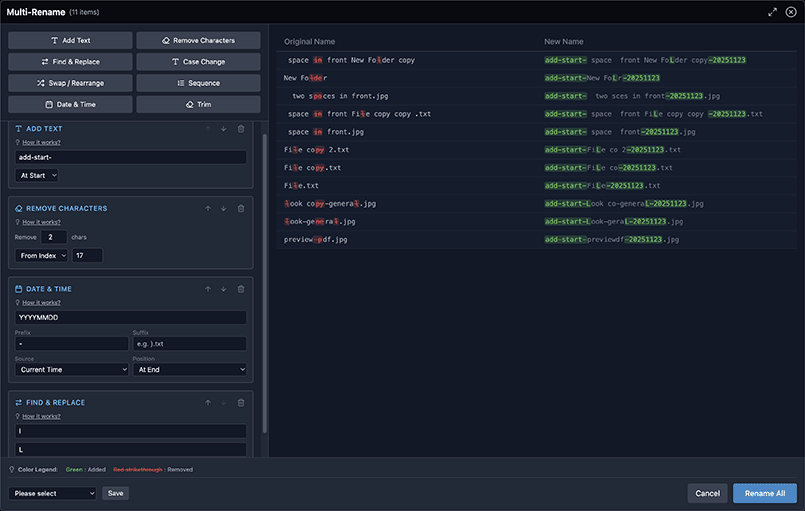
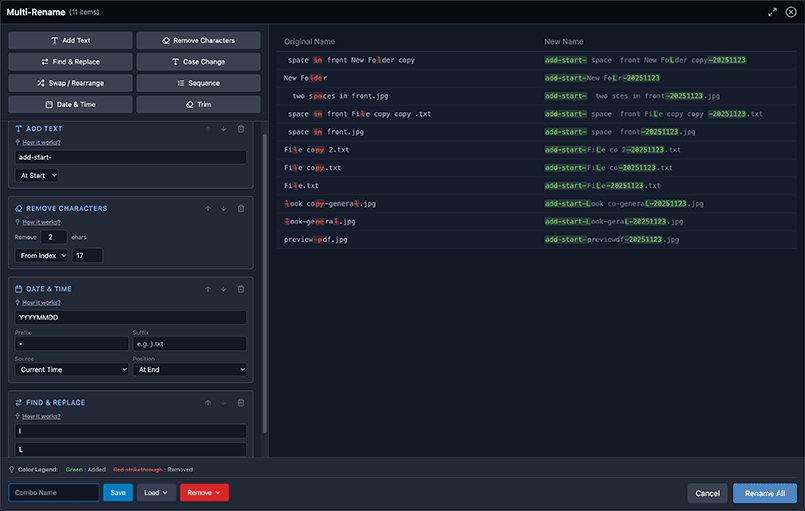
Refactor the UX for Multi Rename modal's Save/Load/Remove of rename combos.

Changed region(s): [[0.0, 0.9393, 0.3106, 0.998]]

diff --git a/packages/client/src/components/modals/MultiRenameModal.jsx b/packages/client/src/components/modals/MultiRenameModal.jsx
@@ -13,6 +13,7 @@ import {
   ListOrdered,
   Calendar,
   Lightbulb,
+  ChevronDown,
 } from "lucide-react";
 import { applyRenameOperations, generateDiff } from "../../lib/renameUtils";
 import {
@@ -42,11 +43,13 @@ export default function MultiRenameModal({
   const [operations, setOperations] = useState([]);
   const [previewItems, setPreviewItems] = useState([]);
   const [savedCombos, setSavedCombos] = useState([]);
-  const [selectedCombo, setSelectedCombo] = useState("");
-  const [isSaving, setIsSaving] = useState(false);
   const [saveName, setSaveName] = useState("");
+  const [showLoadDropdown, setShowLoadDropdown] = useState(false);
+  const [showRemoveDropdown, setShowRemoveDropdown] = useState(false);
   const [isFullscreen, setIsFullscreen] = useState(false);
   const containerRef = useRef(null);
+  const loadDropdownRef = useRef(null);
+  const removeDropdownRef = useRef(null);
 
   // Reset when opening
   useEffect(() => {
@@ -191,6 +194,85 @@ export default function MultiRenameModal({
     window.addEventListener("keydown", handleKeyDown);
     return () => window.removeEventListener("keydown", handleKeyDown);
   }, [isVisible]);
+
+  // Close dropdowns when clicking outside
+  useEffect(() => {
+    const handleClickOutside = (event) => {
+      if (
+        loadDropdownRef.current &&
+        !loadDropdownRef.current.contains(event.target)
+      ) {
+        setShowLoadDropdown(false);
+      }
+      if (
+        removeDropdownRef.current &&
+        !removeDropdownRef.current.contains(event.target)
+      ) {
+        setShowRemoveDropdown(false);
+      }
+    };
+
+    if (isVisible) {
+      document.addEventListener("mousedown", handleClickOutside);
+      return () => document.removeEventListener("mousedown", handleClickOutside);
+    }
+  }, [isVisible]);
+
+  const handleSave = async () => {
+    if (!saveName.trim()) {
+      alert("Please enter a name for this rename combination.");
+      return;
+    }
+    if (operations.length === 0) {
+      alert("Please add at least one operation before saving.");
+      return;
+    }
+
+    try {
+      // Prepare operations for saving (strip id to avoid persistent ids)
+      const toSave = operations.map(({ id, ...rest }) => rest);
+      await saveMultiRenameCombo(saveName, toSave);
+      // refresh saved combos
+      const combos = await fetchMultiRenameCombos();
+      setSavedCombos(Array.isArray(combos) ? combos : []);
+      // Don't clear saveName, so user sees what they saved
+    } catch (err) {
+      console.error("[MultiRename] failed to save rename combination", err);
+      alert("Failed to save: " + err.message);
+    }
+  };
+
+  const handleLoad = (comboName) => {
+    const combo = savedCombos.find((c) => c.name === comboName);
+    if (combo && Array.isArray(combo.operations)) {
+      const restored = combo.operations.map((op, idx) => ({
+        ...op,
+        id: `${Date.now()}-${idx}`,
+      }));
+      setOperations(restored);
+      setSaveName(comboName); // Update input to match loaded combo
+    }
+    setShowLoadDropdown(false);
+  };
+
+  const handleRemove = async (comboName) => {
+    const confirmed = window.confirm(
+      `Remove saved rename combination "${comboName}"?`
+    );
+    if (!confirmed) return;
+
+    try {
+      const data = await removeMultiRenameCombo(comboName);
+      setSavedCombos(Array.isArray(data.combos) ? data.combos : []);
+      if (saveName === comboName) {
+        setSaveName("");
+      }
+    } catch (err) {
+      console.error("[MultiRename] failed to remove rename combination", err);
+      alert("Failed to remove: " + err.message);
+    }
+    setShowRemoveDropdown(false);
+  };
 
   if (!isVisible) return null;
 
@@ -371,128 +453,77 @@ export default function MultiRenameModal({
           )}
 
           <div className="flex justify-between gap-3 items-center">
-            {/* Left: saved combos / save control */}
-            <div className="flex items-center gap-3">
-              {savedCombos && savedCombos.length > 0 && (
-                <select
-                  value={selectedCombo || ""}
-                  onChange={(e) => {
-                    const name = e.target.value;
-                    setSelectedCombo(name);
-                  }}
-                  className="bg-gray-900 border border-gray-700 rounded px-2 py-1 text-sm text-white focus:border-sky-500 outline-none"
-                >
-                  <option value="">Please select</option>
-                  {savedCombos.map((c) => (
-                    <option key={c.name} value={c.name}>
-                      {c.name}
-                    </option>
-                  ))}
-                </select>
-              )}
-
-              <div className="flex items-center gap-2">
-                {/* Load / Remove controls - only active when a saved combo is selected */}
-                {selectedCombo ? (
-                  <>
-                    <button
-                      onClick={() => {
-                        const combo = savedCombos.find(
-                          (c) => c.name === selectedCombo
-                        );
-                        if (combo && Array.isArray(combo.operations)) {
-                          const restored = combo.operations.map((op, idx) => ({
-                            ...op,
-                            id: `${Date.now()}-${idx}`,
-                          }));
-                          setOperations(restored);
-                        }
-                      }}
-                      className="px-3 py-1 bg-sky-600 hover:bg-sky-500 text-white rounded text-sm transition-colors"
-                      title="Load selected rename combination"
-                    >
-                      Load
-                    </button>
-                    <button
-                      onClick={async () => {
-                        const confirmed = window.confirm(
-                          `Remove saved rename combination "${selectedCombo}"?`
-                        );
-                        if (!confirmed) return;
-                        try {
-                          const data = await removeMultiRenameCombo(
-                            selectedCombo
-                          );
-                          // server returns updated combos
-                          setSavedCombos(
-                            Array.isArray(data.combos) ? data.combos : []
-                          );
-                          setSelectedCombo("");
-                        } catch (err) {
-                          console.error(
-                            "[MultiRename] failed to remove rename combination",
-                            err
-                          );
-                        }
-                      }}
-                      className="px-3 py-1 bg-rose-600 hover:bg-rose-500 text-white rounded text-sm transition-colors"
-                      title="Remove selected rename combination"
-                    >
-                      Remove
-                    </button>
-                  </>
-                ) : null}
-                {isSaving ? (
-                  <>
-                    <input
-                      value={saveName}
-                      onChange={(e) => setSaveName(e.target.value)}
-                      placeholder="Rename combination name"
-                      className="bg-gray-900 border border-gray-700 rounded px-2 py-1 text-sm text-white focus:border-sky-500 outline-none"
-                    />
-                    <button
-                      onClick={async () => {
-                        if (!saveName || operations.length === 0) return;
-                        try {
-                          // Prepare operations for saving (strip id to avoid persistent ids)
-                          const toSave = operations.map(
-                            ({ id, ...rest }) => rest
-                          );
-                          await saveMultiRenameCombo(saveName, toSave);
-                          // refresh saved combos
-                          const combos = await fetchMultiRenameCombos();
-                          setSavedCombos(Array.isArray(combos) ? combos : []);
-                          setSelectedCombo(saveName);
-                          setIsSaving(false);
-                          setSaveName("");
-                        } catch (err) {
-                          console.error(
-                            "[MultiRename] failed to save rename combination",
-                            err
-                          );
-                        }
-                      }}
-                      className="px-3 py-1 bg-emerald-600 hover:bg-emerald-500 text-white rounded text-sm transition-colors"
-                    >
-                      Save
-                    </button>
-                    <button
-                      onClick={() => {
-                        setIsSaving(false);
-                        setSaveName("");
-                      }}
-                      className="px-2 py-1 bg-gray-700 hover:bg-gray-600 text-white rounded text-sm transition-colors"
-                    >
-                      Cancel
-                    </button>
-                  </>
-                ) : (
+            {/* Left: Save/Load/Remove controls */}
+            <div className="flex items-center gap-2">
+              {operations.length > 0 && (
+                <>
+                  <input
+                    type="text"
+                    value={saveName}
+                    onChange={(e) => setSaveName(e.target.value)}
+                    placeholder="Combo Name"
+                    className="bg-gray-900 border border-gray-700 rounded px-3 py-2 text-sm text-white focus:border-sky-500 outline-none w-48"
+                  />
                   <button
-                    onClick={() => setIsSaving(true)}
-                    className="px-3 py-1 bg-gray-700 hover:bg-gray-600 text-white rounded text-sm transition-colors"
+                    onClick={handleSave}
+                    className="px-4 py-2 bg-sky-600 hover:bg-sky-700 text-white rounded transition-colors text-sm"
                   >
                     Save
                   </button>
+                </>
+              )}
+
+              {/* Load Dropdown */}
+              <div className="relative" ref={loadDropdownRef}>
+                <button
+                  onClick={() => {
+                    setShowLoadDropdown(!showLoadDropdown);
+                    setShowRemoveDropdown(false);
+                  }}
+                  disabled={savedCombos.length === 0}
+                  className="px-4 py-2 bg-gray-700 hover:bg-gray-600 text-white rounded transition-colors disabled:opacity-50 disabled:cursor-not-allowed flex items-center gap-1 text-sm"
+                >
+                  Load <ChevronDown size={16} />
+                </button>
+                {showLoadDropdown && savedCombos.length > 0 && (
+                  <div className="absolute bottom-full mb-1 left-0 bg-gray-800 border border-gray-600 rounded shadow-lg max-h-48 overflow-y-auto z-10 min-w-[200px]">
+                    {savedCombos.map((c) => (
+                      <button
+                        key={c.name}
+                        onClick={() => handleLoad(c.name)}
+                        className="w-full text-left px-4 py-2 hover:bg-sky-600 text-white transition-colors text-sm"
+                      >
+                        {c.name}
+                      </button>
+                    ))}
+                  </div>
+                )}
+              </div>
+
+              {/* Remove Dropdown */}
+              <div className="relative" ref={removeDropdownRef}>
+                <button
+                  onClick={() => {
+                    setShowRemoveDropdown(!showRemoveDropdown);
+                    setShowLoadDropdown(false);
+                  }}
+                  disabled={savedCombos.length === 0}
+                  className="px-4 py-2 bg-red-600 hover:bg-red-700 text-white rounded transition-colors disabled:opacity-50 disabled:cursor-not-allowed flex items-center gap-1 text-sm"
+                >
+                  Remove <ChevronDown size={16} />
+                </button>
+                {showRemoveDropdown && savedCombos.length > 0 && (
+                  <div className="absolute bottom-full mb-1 left-0 bg-gray-800 border border-gray-600 rounded shadow-lg max-h-48 overflow-y-auto z-10 min-w-[200px]">
+                    {savedCombos.map((c) => (
+                      <button
+                        key={c.name}
+                        onClick={() => handleRemove(c.name)}
+                        className="w-full text-left px-4 py-2 hover:bg-red-600 text-white transition-colors text-sm"
+                      >
+                        {c.name}
+                      </button>
+                    ))}
+                  </div>
                 )}
               </div>
             </div>
@@ -501,13 +532,13 @@ export default function MultiRenameModal({
             <div className="flex justify-end gap-3">
               <button
                 onClick={onClose}
-                className="px-4 py-2 bg-gray-700 hover:bg-gray-600 text-white rounded transition-colors"
+                className="px-4 py-2 bg-gray-700 hover:bg-gray-600 text-white rounded transition-colors text-sm"
               >
                 Cancel
               </button>
               <button
                 onClick={() => onApply(previewItems)}
-                className="px-6 py-2 bg-sky-600 hover:bg-sky-500 text-white font-medium rounded transition-colors"
+                className="px-6 py-2 bg-sky-600 hover:bg-sky-500 text-white font-medium rounded transition-colors text-sm"
               >
                 Rename All
               </button>
